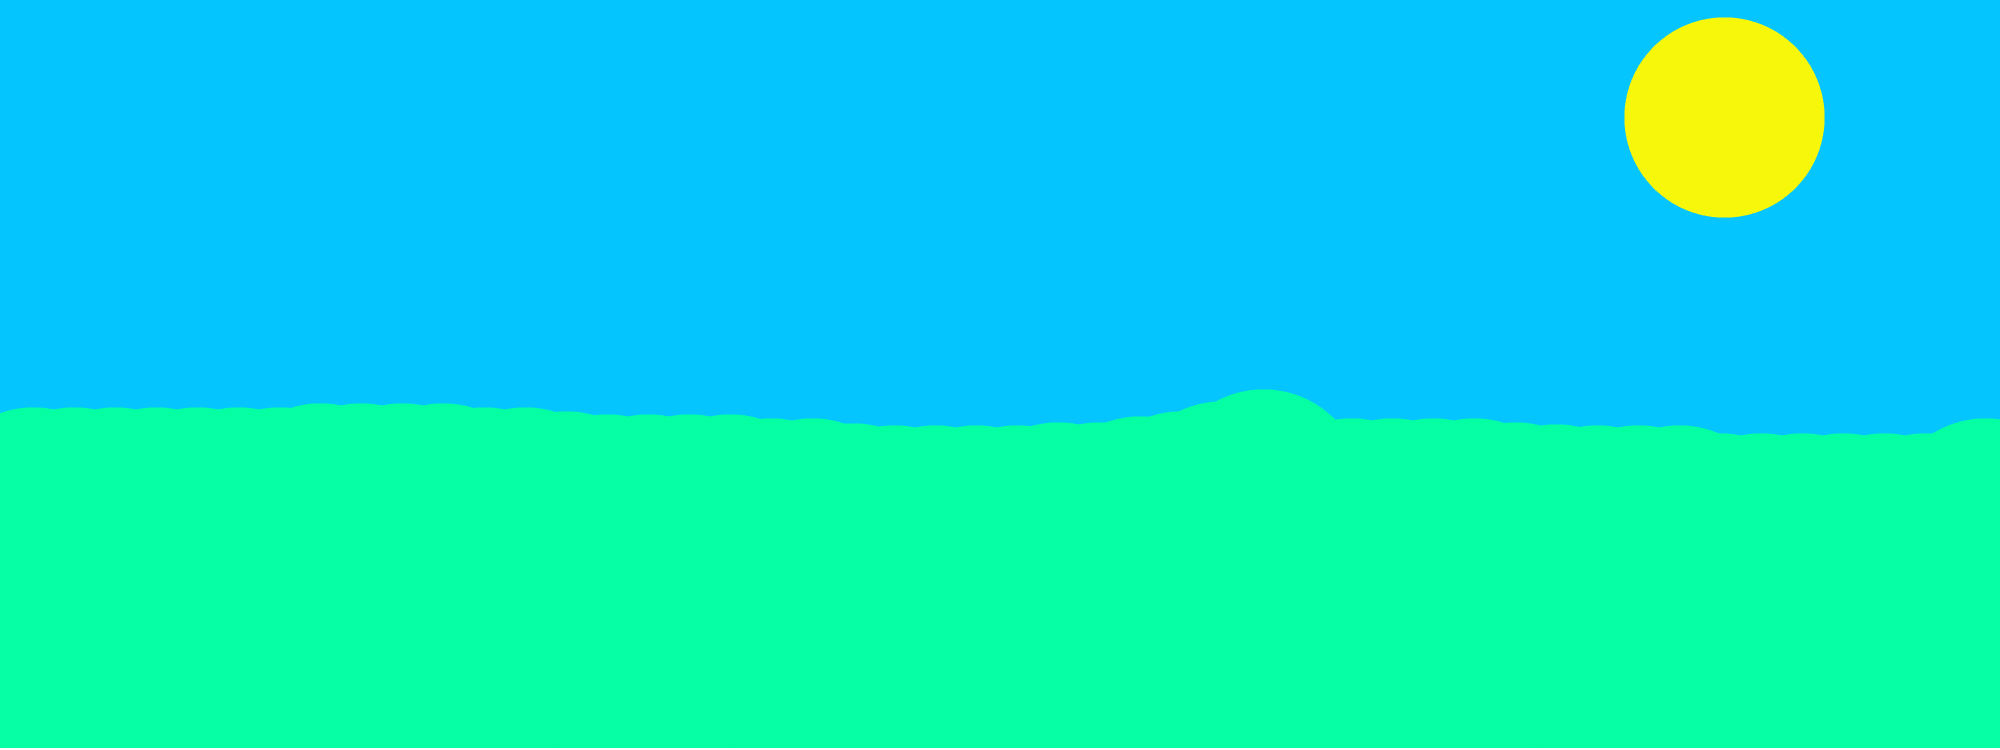
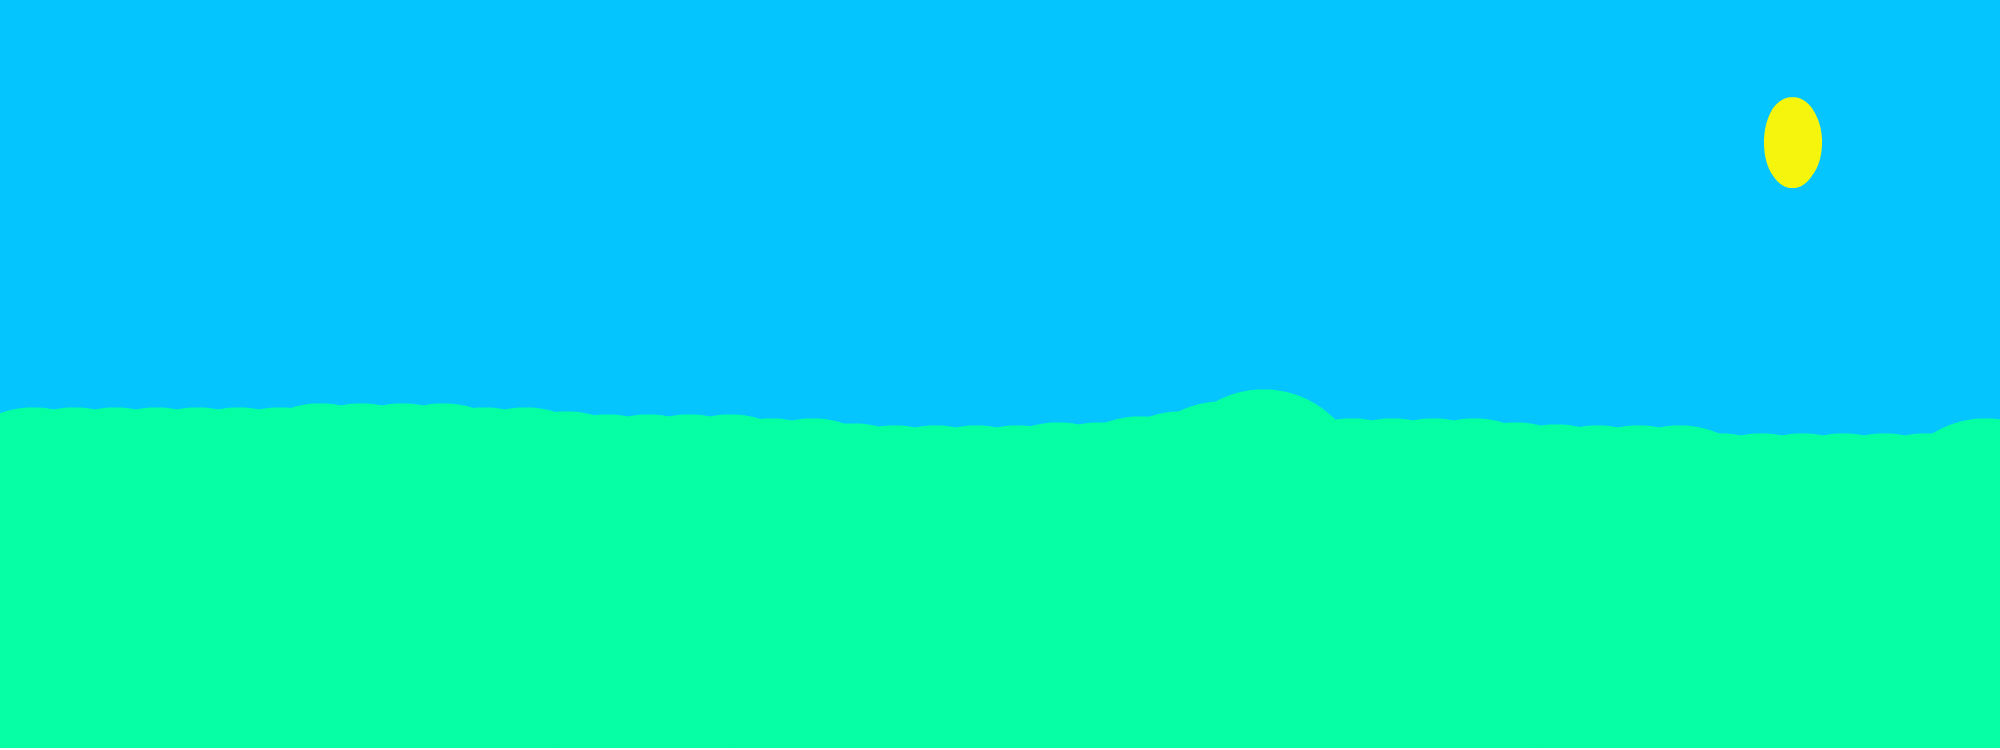
wip : looking up and down

Changed region(s): [[0.806, 0.0, 0.93, 0.3067]]

diff --git a/fopWorld/camera.js b/fopWorld/camera.js
@@ -10,17 +10,17 @@ function Camera(canvas, resolution, focalLength) {
   this.scale = (this.width + this.height) / 1200;
 }
 Camera.prototype.render = function(player, map) {
-  this.drawSky(player.direction, map.skybox, map.light);
+  this.drawSky(player.direction, player.decal, map.skybox, map.light);
   this.drawColumns(player, map);
   this.drawWeapon(player.weapon, player.paces);
 };
-Camera.prototype.drawSky = function(direction, sky, ambient) {
+Camera.prototype.drawSky = function(direction, decal, sky, ambient) {
   var width = sky.width * (this.height / sky.height) * 2;
   var left = (direction / CIRCLE) * -width;
   this.ctx.save();
-  this.ctx.drawImage(sky.image, left, 0, width, this.height);
+  this.ctx.drawImage(sky.image, left, decal, width, this.height);
   if (left < width - this.width) {
-    this.ctx.drawImage(sky.image, left + width, 0, width, this.height);
+    this.ctx.drawImage(sky.image, left + width, decal, width, this.height);
   }
   if (ambient > 0) {
     this.ctx.fillStyle = '#ffffff';

diff --git a/fopWorld/map.js b/fopWorld/map.js
@@ -37,7 +37,7 @@ function Map(size) {
 0,0,0,0,0,0,0,0,0,0,0,0,0,0,0,0,0,0,0,0,0,0,0,0,0,0,0,0,0,0,0,0,
 ];
 //  this.wallGrid = new Uint8Array(size * size);
-  this.skybox = new Bitmap('assets/panorama.jpg', 2000, 750);
+  this.skybox = new Bitmap('assets/panorama3.jpg', 1000, 375);
   this.wallTexture = new Bitmap('assets/wall_texture2.jpg', 1024, 1024);
   this.light = 0;
 }
